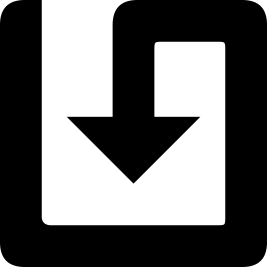
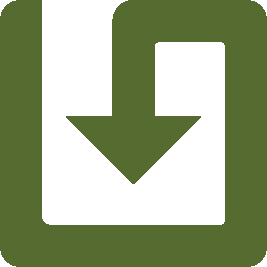
button styling

diff --git a/assets/script.js b/assets/script.js
@@ -2,12 +2,28 @@
 var timeDisplayEl = $('#time-display');
 var idL = $('#id');
 var textBlockL = $('.textBlock');
-
-
 var saveButton = $('.save');
 var clearButton = $('.clear');
+var selectText;
 
+$( document ).ready(function() {
+    console.log( "ready!" );
+    $(".textBlock").each(function(){
+        var textID = $(this).parent().attr("id");
+        console.log("textID: " + textID);
+        console.log("localStorage: " + localStorage);
+        // if (localStorage.key == textID) {
+        //     console.log("MATCH! " + textID);
+        // }
+        // check if empty
+        // if (! $(this).text("Enter notes...")){
+        //     console.log( "get localStorage" );
+        // } ;
 
+        //console.log( localStorage.getItem(JSON.parse(selectText)))
+        //localStorage.getItem(JSON.parse(selectText));
+    });
+});
 
 
 // Use Moment.js to format the date and assign to the declared variable.
@@ -33,14 +49,17 @@ function timeHighlight() {
         $(".row").each(function(){
             // Test if the div id matches hour
             if($(this).attr("id") === hourFocus ){
+                $(this).children().eq(1).addClass("present")
                 //console.log("match");
                // console.log(this);
-                $(this).children().eq(1).css("background", "lightyellow");
+                //$(this).children().eq(1).css("background", "lightyellow");
             } else if ($(this).attr("id") > hourFocus ){
-                $(this).children().eq(1).css("background", "rgba(85, 107, 47, 0.1)");
+                $(this).children().eq(1).addClass("future")
+                //$(this).children().eq(1).css("background", "rgba(85, 107, 47, 0.1)");
             } else {
-                $(this).children().eq(1).css("background", "rgba(211, 211, 211, 0.2)");
-                $(this).children().eq(1).css("color", "rgba(0, 0, 0, 0.3)");
+                $(this).children().eq(1).addClass("past")
+                //$(this).children().eq(1).css("background", "rgba(211, 211, 211, 0.2)");
+                //$(this).children().eq(1).css("color", "rgba(0, 0, 0, 0.3)");
                 $(this).children().eq(1).attr("contenteditable", "false");
             }
         });
@@ -55,42 +74,56 @@ function test(event) {
 
 // https://stackoverflow.com/questions/2398947/jquery-how-to-get-to-a-particular-child-of-a-parent
 function saveText(event) {
-console.log("save: " + event.target);
-console.log(this);
-var textID = $(this).parent().attr("id");
-console.log("textID: " + textID);
-var selectText = $(this).parent().children().eq(1).text();
-console.log(selectText);
+    console.log("save: " + event.target);
+    console.log(this);
+    var textID = $(this).parent().attr("id");
+    console.log("textID: " + textID);
+    var selectText = $(this).parent().children().eq(1).text();
+    console.log(selectText);
 
-localStorage.setItem(JSON.stringify(textID),JSON.stringify(selectText));
+    localStorage.setItem(JSON.stringify(textID),JSON.stringify(selectText));
+    // render to textBlock
+    // SAVED ALERT
 
 }
 
 
 // https://stackoverflow.com/questions/2398947/jquery-how-to-get-to-a-particular-child-of-a-parent
 function clear(event) {
-console.log("clear: " + event.target);
-console.log(this);
-//$(this).children().eq(1).val('');
-//$(this).children().eq(1).text('');
-// var select = $(this).parent().children().eq(1);
-// console.log(select);
-/// Try DELEGATION
-var select = $(this).parent().children().eq(1);
-console.log(select);
-$(this).parent().children().eq(1).text("");
+    console.log("clear: " + event.target);
+    console.log("this: " + this);
+    /// Try DELEGATION
+    var select = $(this).parent().children().eq(1);
+    console.log("select: " + select);
+    $(this).parent().children().eq(1).text("");
+    //$(this).parent().children().eq(1).attr("contenteditable", "true"); //not required ...reverts to false
+    console.log("this: " + this);
+    // CLEAR localStorage
 }
+
+function reset(event) {
+    $(".textBlock").each(function(){
+        $(this).text("");
+        // CLEAR localStorage
+    });
+}
+
+
+
 
 
 
 // event listeners
 saveButton.on('click', saveText);
 clearButton.on('click', clear);
+//resetButton.on('click', reset);
 
 
 // set refresh interval
 setInterval(clock, 1000);
 setInterval(timeHighlight, 1000);
+// AutoSave 2 minutes
+// AutoReset?
 
 
 //example

diff --git a/index.html b/index.html
@@ -33,7 +33,7 @@
     <div class="container">
 
       <!-- ------ TIMEBLOCK ROW ------ -->
-      <div id="15" class="row">
+      <div id="10" class="row">
         <div class="hour my-auto col-lg-1">
           6am
         </div>
@@ -45,14 +45,14 @@
         <!-- https://stackoverflow.com/questions/73730265/how-to-limit-character-count-on-contenteditible-div-in-vanilla-javascript -->
         <div class="textBlock text-left py-1 col-lg-9" contenteditable="true">
             <!-- <input type="text"> -->
-            Lorem ipsum dolor sit amet, consectetur adipiscing elit. Duis quis ornare nisi. Vestibulum eget placerat diam. Donec mauris diam, vestibulum quis blandit a, egestas ut sem. Phasellus ligula urna, tempus eu nisi ut, gravida fringilla dui. Praesent consequat nulla sed.
+            Enter notes...
             <!-- </input> -->
         </div>
         <div class="clear my-auto text-center col-lg-1">
-          <img src="./images/saveIcon.png" alt="clear button" height="50" width="50">
+          <img src="./images/clearIcon.png" alt="clear button" class="clearicon">
         </div>
         <div class="save my-auto text-center col-lg-1">
-          <img src="./images/saveIcon.png" alt="save button" height="50" width="50">
+          <img src="./images/saveIcon.png" alt="save button" class="saveicon">
         </div>
       </div>
 
@@ -60,38 +60,37 @@
       </textarea> -->
 
       <!-- ------ TIMEBLOCK ROW ------ -->
-      <div id="16" class="row ">
+      <div id="11" class="row ">
         <div class="hour my-auto col-lg-1">
           7am
         </div>
         <div class="textBlock text-left py-1 col-lg-9" contenteditable="true">
           <!-- <input type="text"> -->
-          Lorem ipsum dolor sit amet, consectetur adipiscing elit. Duis quis ornare nisi. Vestibulum eget placerat diam. Donec mauris diam, vestibulum quis blandit a, egestas ut sem. Phasellus ligula urna, tempus eu nisi ut, gravida fringilla dui. Praesent consequat nulla sed.
-          <!-- </input> -->
+          Enter notes...
         </div>
         <div class="clear my-auto text-center col-lg-1">
-          <img src="./images/saveIcon.png" alt="clear button" height="50" width="50">
+          <img src="./images/clearIcon.png" alt="clear button" class="clearicon">
         </div>
         <div class="save my-auto text-center col-lg-1">
-          <img src="./images/saveIcon.png" alt="save button" height="50" width="50">
+          <img src="./images/saveIcon.png" alt="save button" class="saveicon">
         </div>
       </div>
 
       <!-- ------ TIMEBLOCK ROW ------ -->
-      <div id="17" class="row">
+      <div id="12" class="row">
         <div class="hour my-auto col-lg-1">
           8am
         </div>
         <div class="textBlock text-left py-1 col-lg-9" rows="3"  contenteditable="true">
           <!-- <input type="text"> -->
-          Enter text..
+          Enter notes...
           <!-- </input> -->
         </div>
         <div class="clear my-auto text-center col-lg-1">
-          <img src="./images/saveIcon.png" alt="clear button" height="50" width="50">
+          <img src="./images/clearIcon.png" alt="clear button" class="clearicon">
         </div>
         <div class="save my-auto text-center col-lg-1">
-          <img src="./images/saveIcon.png" alt="save button" height="50" width="50">
+          <img src="./images/saveIcon.png" alt="save button" class="saveicon">
         </div>
       </div>
 

diff --git a/assets/style.css b/assets/style.css
@@ -79,54 +79,36 @@ textarea {
 }
 
 .clear {
-  /* position: relative;
-  top: 15px; */
-  /* text-align: center; */
-  /* background-color: transparent;
-  background-image: url("../images/saveIcon.png");
-  background-repeat: no-repeat; */
 }
 
 .save {
-  /* position: relative;
-  top: 15px; */
-  /* text-align: center; */
   border-left: 1px solid var(--forestGreenLt1);
-  /* background-color: transparent;
-  background-image: url("../images/saveIcon.png");
-  background-repeat: no-repeat; */
+}
+
+.clearicon, .saveicon {
+  height: 30px;
+  width: 30px;
+  opacity: 0.8;
+}
+
+.clearicon:hover, .saveicon:hover {
+  opacity: 0.4;;
+  transition: all 0.1s ease-in-out;
 }
 
 
 .past {
-  background-color: #d3d3d3;
-  color: white;
+  background-color: rgba(211, 211, 211, 0.2);
+  color: rgba(0, 0, 0, 0.3);
 }
 
 .present {
-  background-color: #ff6961;
-  color: white;
+  background-color: lightyellow;
 }
 
 .future {
-  background-color: #77dd77;
-  color: white;
+  background-color: rgba(85, 107, 47, 0.1);
 }
-
-.saveBtn {
-  border-left: 1px solid black;
-  border-top-right-radius: 15px;
-  border-bottom-right-radius: 15px;
-  background-color: #06aed5;
-  color: white;
-}
-
-.saveBtn i:hover {
-  font-size: 20px;
-  transition: all 0.3s ease-in-out;
-}
-
-
 
  /* RESPONSIVE MEDIA QUERIES */
 

diff --git a/peudocode.md b/peudocode.md
@@ -29,7 +29,11 @@ The app should:
     * grey out past hours
     * style hours pending
 * save function for editable text area
+    * reder saved text to textBlock
     * autoSave
+    * savealert
 * clear function for editable text area
 * *edit function for editable text area*
 * reset function for the whole scheduler
+* button transition styles
+* media queries
